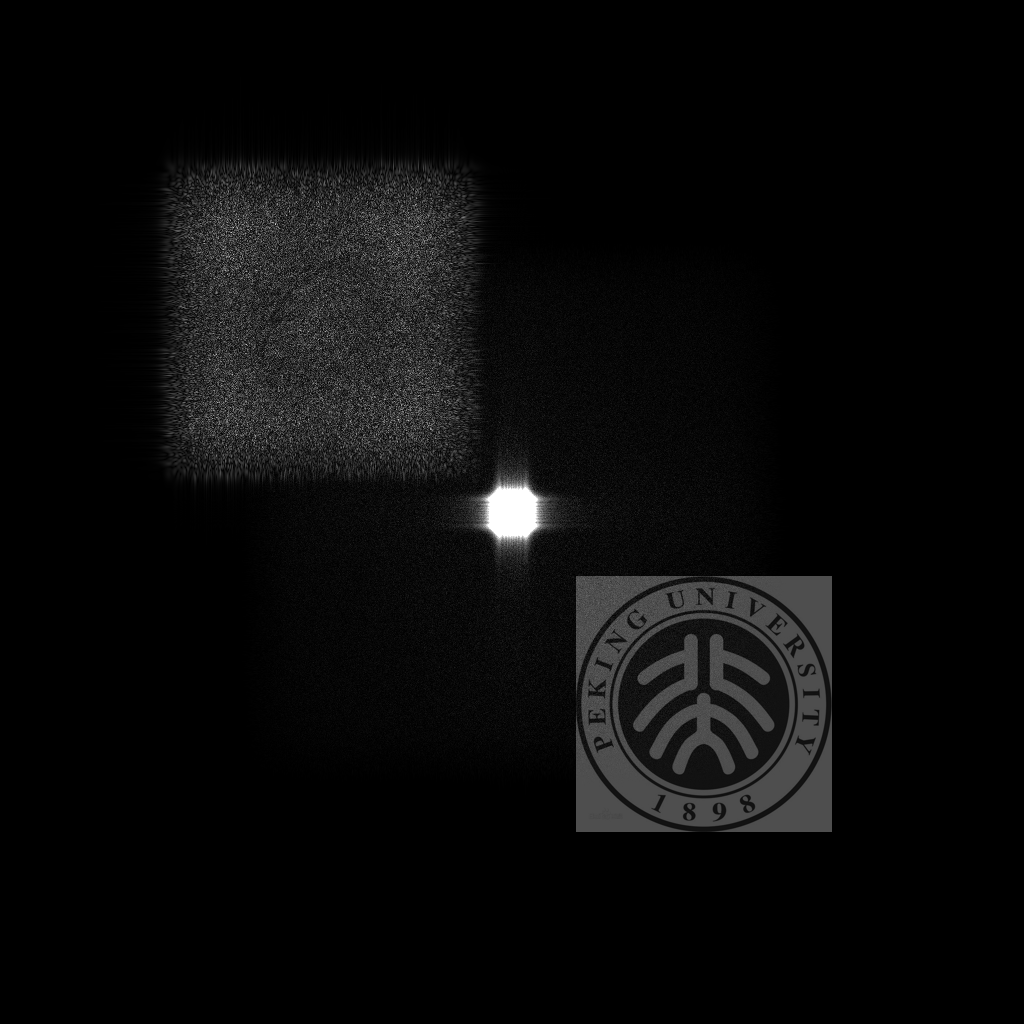
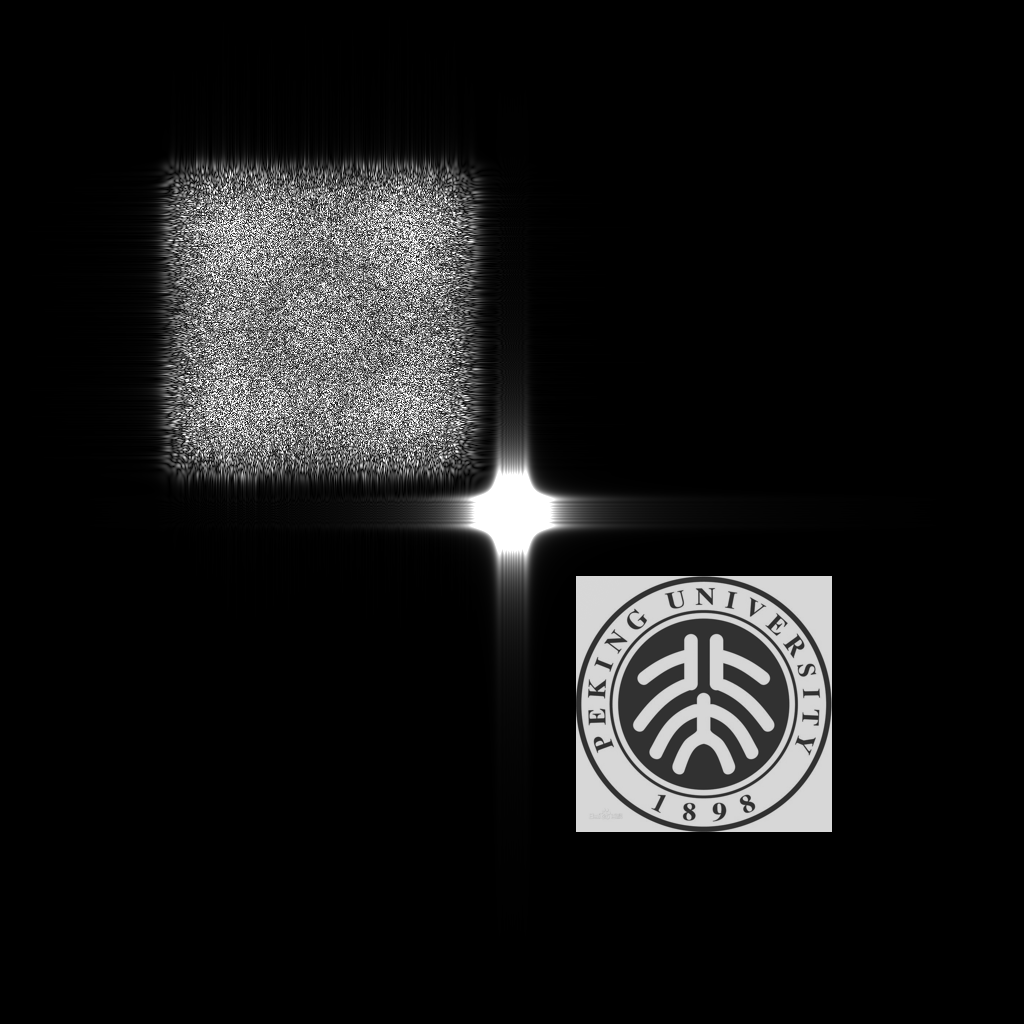
complete kinoform and use fixing algorithm of interference hologram

Changed region(s): [[0.1562, 0.1562, 0.5938, 0.5938], [0.5625, 0.5625, 0.8125, 0.8125]]

diff --git a/kinoform/main.py b/kinoform/main.py
@@ -1,0 +1,111 @@
+import cupy as cp
+import numpy as np
+import matplotlib.pyplot as plt
+from PIL import Image
+
+# 参数设置
+image_size = 256  # 图像大小
+wavelength = 0.532e-3  # 波长(mm)
+k = 2 * cp.pi / wavelength  # 波数
+pix = 0.0064  # SLM像素宽度(mm)
+N = 512  # 相息图取样数
+L = N * pix  # SLM宽度(mm)
+m0 = 0.5  # 图像在重建周期中的显示比例
+z0 = 1200  # 衍射距离(mm)
+L0 = wavelength * z0 / pix  # 重建像平面宽度(mm)
+
+# 加载图像
+image_path = 'pku.jpg'
+image = Image.open(image_path).convert('L')
+image = image.resize((image_size, image_size))
+image_array = cp.array(image)
+
+# 裁剪图像
+M1, N1 = image_array.shape
+X = cp.zeros((N, N))
+X[N//2-M1//2:N//2+M1//2, N//2-N1//2:N//2+N1//2] = image_array
+
+# 显示原始图像
+plt.figure()
+plt.imshow(cp.asnumpy(X), cmap='gray')
+plt.title('Original Image')
+plt.colorbar()
+plt.show()
+
+# 初始场随机相位
+Y = X.astype(cp.float64)
+a = cp.ones((N, N))
+b = cp.random.rand(N, N) * 2 * cp.pi
+U0 = Y * cp.exp(1j * b)
+X0 = cp.abs(U0)
+
+# 迭代参数
+np_iter = int(input('Number of iterations: '))
+
+for p in range(np_iter + 1):
+    # 菲涅耳衍射 (S-FFT)
+    x_coords = cp.linspace(-L0 / 2, L0 / 2, N)
+    y_coords = cp.linspace(-L0 / 2, L0 / 2, N)
+    xx, yy = cp.meshgrid(x_coords, y_coords)
+    Fresnel = cp.exp(1j * k / (2 * z0) * (xx**2 + yy**2))
+    f2 = U0 * Fresnel
+    Uf = cp.fft.fftshift(cp.fft.fft2(cp.fft.fftshift(f2)))
+    x_coords = cp.linspace(-L / 2, L / 2, N)
+    y_coords = cp.linspace(-L / 2, L / 2, N)
+    xx, yy = cp.meshgrid(x_coords, y_coords)
+    phase = cp.exp(1j * k * z0) / (1j * wavelength * z0) * cp.exp(1j * k / (2 * z0) * (cp.power(xx, 2) + cp.power(yy, 2)))
+    Uf = Uf * phase
+
+    # 显示SLM平面的物光振幅分布
+    plt.figure()
+    plt.imshow(cp.asnumpy(cp.abs(Uf)), cmap='gray')
+    plt.title('Amplitude Distribution at SLM Plane')
+    plt.colorbar()
+    plt.show()
+
+    # 生成相息图
+    Phase = cp.angle(Uf) + cp.pi
+    Ih = (Phase / (2 * cp.pi) * 255)
+    plt.figure()
+    plt.imshow(cp.asnumpy(Phase).astype(cp.uint8), cmap='gray')
+    plt.title('Hologram')
+    plt.colorbar()
+    plt.show()
+
+    # 逆菲涅耳衍射 (S-IFFT)
+    U0 = cp.exp(1j * cp.angle(Uf))
+    x_coords = cp.linspace(-L / 2, L / 2, N)
+    y_coords = cp.linspace(-L / 2, L / 2, N)
+    xx, yy = cp.meshgrid(x_coords, y_coords)
+    Fresnel = cp.exp(-1j * k / (2 * z0) * (cp.power(xx, 2) + cp.power(yy, 2)))
+    f2 = U0 * Fresnel
+    Uf = cp.fft.fftshift(cp.fft.ifft2(cp.fft.fftshift(f2)))
+    x_coords = cp.linspace(-L0 / 2, L0 / 2, N)
+    y_coords = cp.linspace(-L0 / 2, L0 / 2, N)
+    xx, yy = cp.meshgrid(x_coords, y_coords)
+    phase = cp.exp(-1j * k * z0) / (-1j * wavelength * z0) * cp.exp(-1j * k / (2 * z0) * (xx**2 + yy**2))
+    Uf = Uf * phase
+
+    # 显示逆运算重建的物平面振幅分布
+    plt.figure()
+    plt.imshow(cp.asnumpy(cp.abs(Uf)), cmap='gray')
+    plt.title('Reconstructed Amplitude Distribution')
+    plt.colorbar()
+    plt.show()
+
+    # 更新U0以进行下一次迭代
+    Phase = cp.angle(Uf)
+    U0 = X0 * cp.exp(1j * Phase)
+
+# 显示最终相息图
+plt.figure()
+plt.imshow(cp.asnumpy(Ih), cmap='gray')
+plt.title('Hologram')
+plt.colorbar()
+plt.show()
+
+# 保存相息图
+Ih = cp.asnumpy(Ih)
+hologram = Ih / cp.max(Ih) * 255
+hologram_image_save = Image.fromarray(hologram.astype(np.uint8))
+hologram_image_save.save('hologram_image.png')

diff --git a/Computational Interference Hologram/main.py b/Computational Interference Hologram/main.py
@@ -11,7 +11,7 @@ N = 1024  # 采样率
 distance = 1  # 传播距离，单位m
 L = N * pix         # CCD宽度
 L0 = wave_length * distance / pix # 重建像平面宽度
-zoom = 10 # 缩放系数（调整此值以提高衬比度）
+zoom = 50 # 缩放系数（调整此值以提高衬比度）
 
 
 # 加载图像
@@ -57,12 +57,12 @@ x = cp.linspace(-L/2, L/2 - L/N, N)
 y = x
 X, Y = cp.meshgrid(x, y)
 reference_light = cp.max(cp.abs(U2)) * cp.exp(1j * k * (X * Qx + Y * Qy))
-reference_phase = cp.angle(reference_light)
 
 # 编码全息图
-U = U2 + reference_light
-I = cp.abs(U * cp.conj(U))
-encoded_hologram = I / cp.max(I) * 255
+object_amplitude = cp.abs(U2) / cp.max(cp.abs(U2))
+object_phase = cp.angle(U2)
+reference_phase = cp.angle(reference_light)
+encoded_hologram = (1 + object_amplitude * cp.cos(reference_phase - object_phase)) / 2
 
 # 将编码后的全息图转换为CPU上的numpy数组以便显示
 encoded_hologram_cpu = cp.asnumpy(encoded_hologram)
